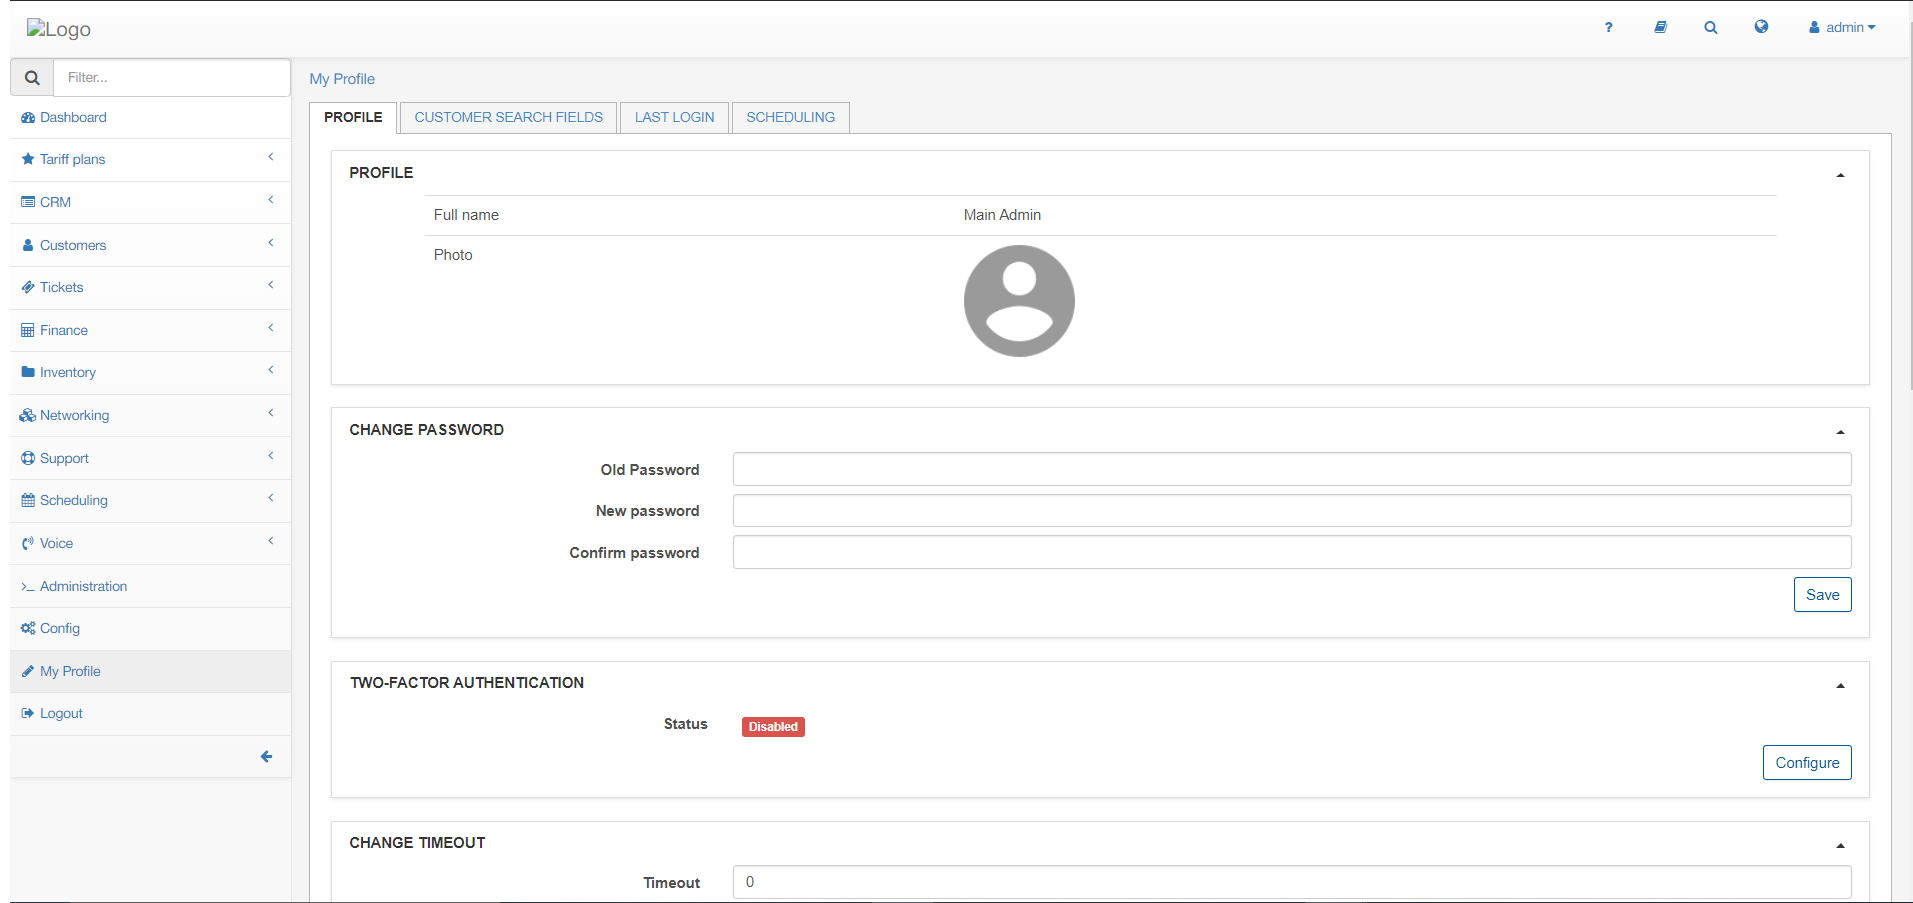
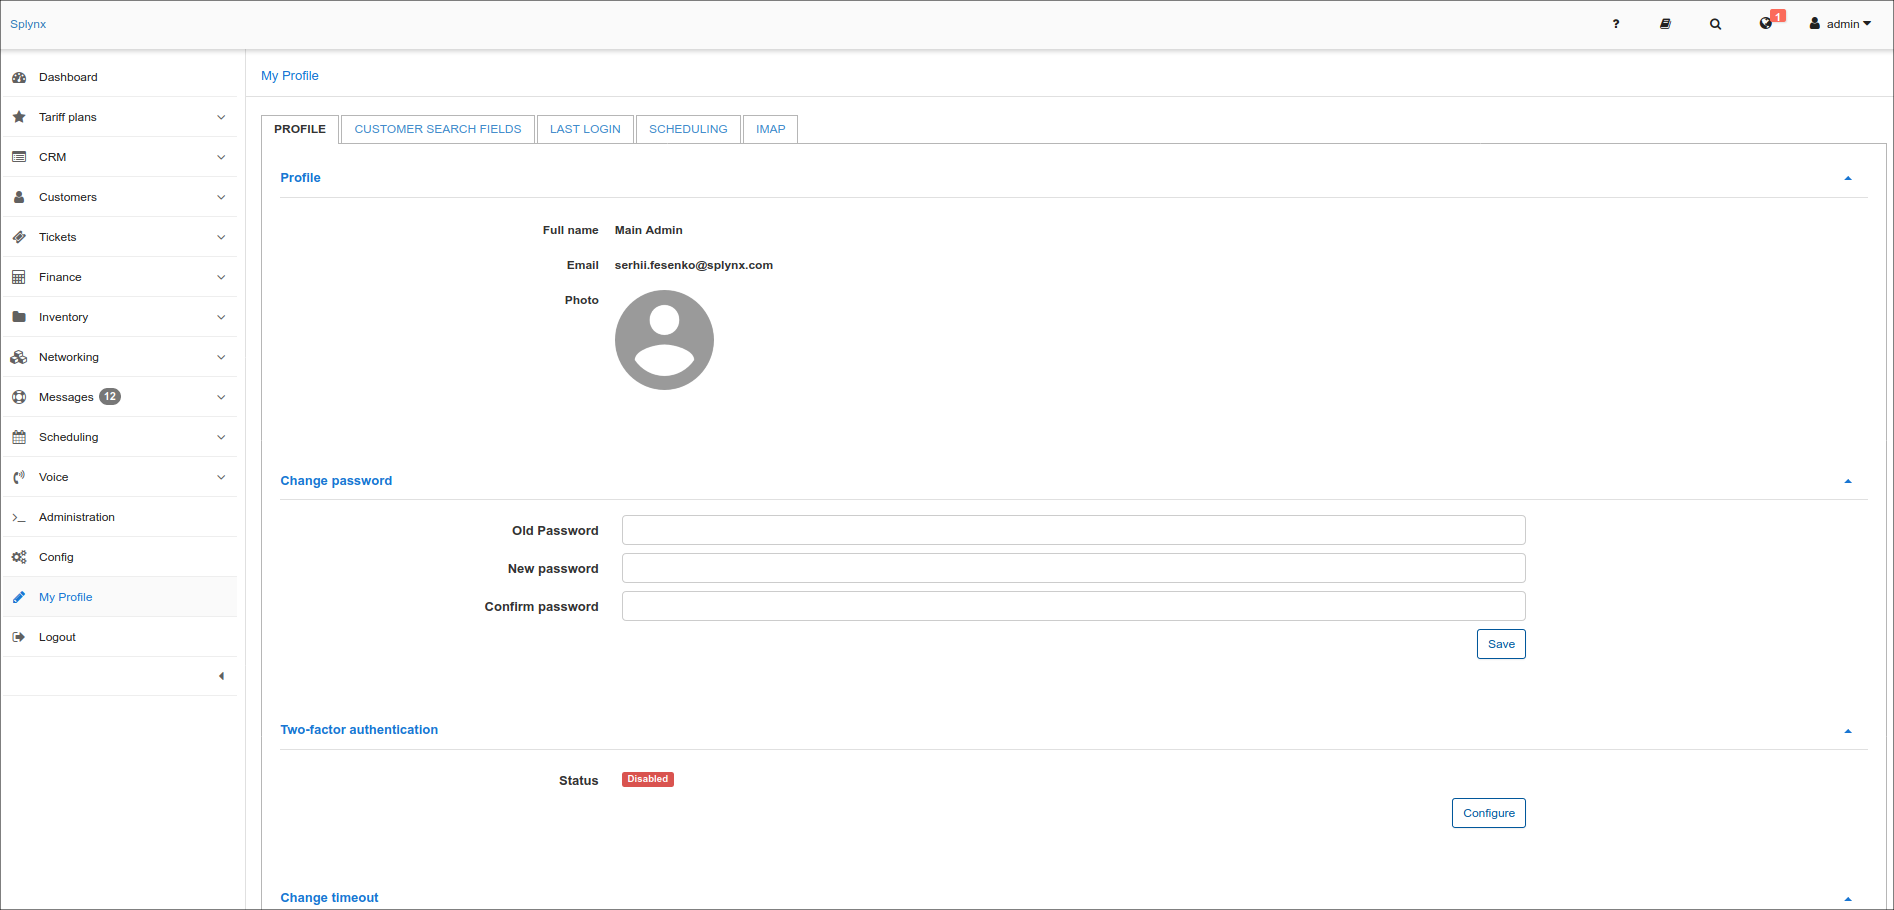
added info about IMAP in My Profile

diff --git a/files/en/my_profile/imap/imap.md b/files/en/my_profile/imap/imap.md
@@ -1,0 +1,123 @@
+Personal IMAP / SMTP configuration
+====
+
+Using this feature an administrator can send emails to the customer/lead as a personal message. The conversation between an administrator and the customer/lead will be visible only for a sender and for a receiver. None of other administrators won't be able to see this conversation in Splynx.
+
+You can find this feature configuration window under section **My profile** on **IMAP** tab:
+
+![settings location](location.png)
+
+Below you can find a description of all available options to configure.
+
+#### Email tracking
+
+![email tracking](email_tracking.png)
+
+* **Enable inbox processing** - enable/disable synchronization of incoming emails between email account and Splynx;
+
+* **Which messages to process** - select _All_ or _Unread_ messages for processing;
+
+* **Process old(historical) messages** - this option allows select of date from which Splynx will try to process emails. If disabled - Splynx will process emails from the moment when processing is enabled;
+
+* **Mark as read** - mark email as read(into email account) if processed by Splynx successfully;
+
+* **Deny list** - a list of emails and domains what will be ignored(won't be synced) by Splynx. Each email/domain should be on a new line;
+
+
+#### Access settings
+
+![access settings](access_settings.png)
+
+Here you can select admins who will have an access to your incoming emails. Be very attentive with this option as all enabled administrators can read your incoming emails.
+
+#### Credentials
+
+![credentials](credentials.png)
+
+Here you need to set a username and a password to your email account. In this case it's a Gmail account login/password.
+
+
+#### IMAP settings
+
+![imap settings](test_connection.png)
+
+* **IMAP server** - an address of your IMAP server;
+
+* **IMAP port** - specify IMAP port(usually 143 or 993);
+
+* **Folder name of sent emails** - here you need to click on "Load" button first and after this a folder should be selected automatically. It should be a folder of sent emails and not any other folder.
+
+![folder of sent](folder_of_sent.png)
+
+* **Use SSL** - enable/disable using of SSL when connecting to IMAP server;
+
+* **Don't validate certificate** - enable/disable validation of certificate.
+
+When all these settings are set, click on "Test connection" to ensure that connection between Splynx and mail server is active, if no - check your settings.
+
+
+#### SMTP settings
+
+Here we have ad administrator's personal SMTP settings(for email sending).
+
+![smtp settings](smtp.png)
+
+* **Enable sending** - enable/disable sending of email from admin's account;
+
+* **Reply to** - here you can specify an email address to reply;
+
+* **Use system SMTP** - send messages to a customer using system email configuration under _Config/Main/Email_. If enabled next parameters as _SMTP server_, _SMTP port_, _SMTP security mode_ and _SMTP authentication type_ will be copied from system settings;
+
+* **SMTP server** - mail server address;
+
+* **SMTP port** - mail server port(usually 25, 465 or 587);
+
+* **SMTP security mode** - mail server security type(none, TLS or SSL);
+
+* **SMTP authentication type** - type of authentication on mail server.
+
+Don't forget to test connection and send a test email.
+
+
+### How it works. Example.
+
+Once we have configured IMAP and SMTP under _My profile_ let's test with some customer.
+
+First I'll send some message directly to splynx.engineer@gmail.com from some not-registered in Splynx email:
+
+![messages-inbox](inbox_splynx.png)
+
+it's exactly the same message what we have on our Gmail account:
+
+![gmail account](inbox_gmail.png)
+
+As you can see under _Messages / Inbox_ we received an not-registered message with mark "Author not found" but near each message we have the "Action" section where we can:
+1. View message;
+2. Pair to a customer;
+3. Add a customer with this email address;
+4. Block email;
+5. Delete message.
+
+Now let's test with some registered customer.
+
+To create a personal message to a customer navigate to "Communication" tab and click on "Send email":
+
+![send email](communication_tab.png)
+
+![send email 2](sent1.png)
+
+Customer received this message and reply to it:
+
+![reply](reply1.png)
+
+Once customer replied - admin will see this message under Communication tab:
+
+![reply in Splynx](reply_splynx.png)
+
+**Note!** In a previous steps I enabled access to my inbox for _splynx_ admin:
+
+![enabled access](access_settings.png)
+
+It means that _splynx_ admin can view Inbox and messages under _Communication_ tab under customer profile of that admin who allowed this but if _splynx_ admin has no configured IMAP under **My profile** he won't see any messages:
+
+![splynx admin inbox](splynx_admin_inbox.png)

diff --git a/files/en/index.md b/files/en/index.md
@@ -73,6 +73,7 @@ Table of contents
 * [Customer search fields](my_profile/customer_search_fields/custom_search_fields.md)
 * [Last Login](my_profile/last_login/last_login.md)
 * [Scheduling](my_profile/scheduling/scheduling.md)
+* [IMAP](my_profile/imap/imap.md)
 
 
 ##### [Networking](networking/networking.md)

diff --git a/files/en/my_profile/my_profile.md b/files/en/my_profile/my_profile.md
@@ -14,3 +14,5 @@ This section is separated into the following sections, please click on each sect
 * [Last Login](my_profile/last_login/last_login.md)
 
 * [Scheduling](my_profile/scheduling/scheduling.md)
+
+* [IMAP](my_profile/imap/imap.md)
